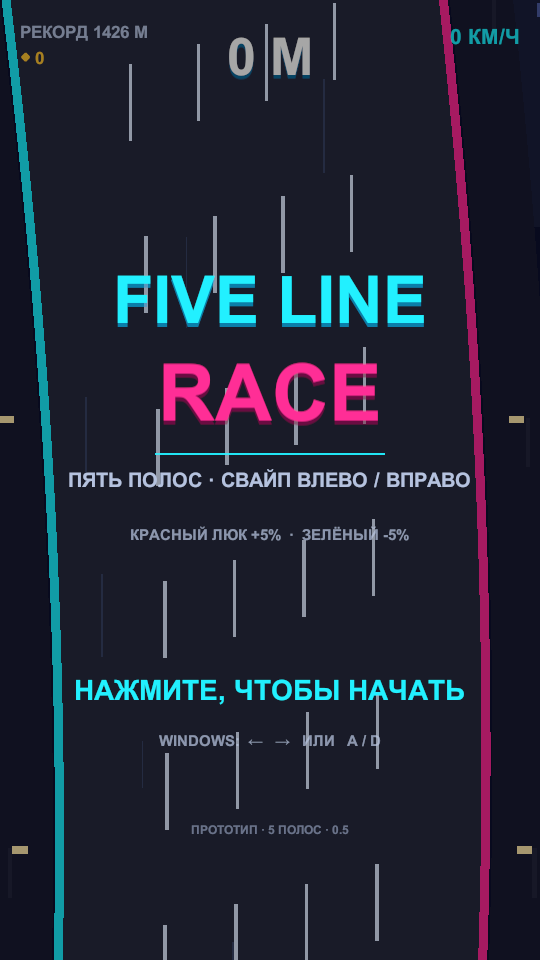
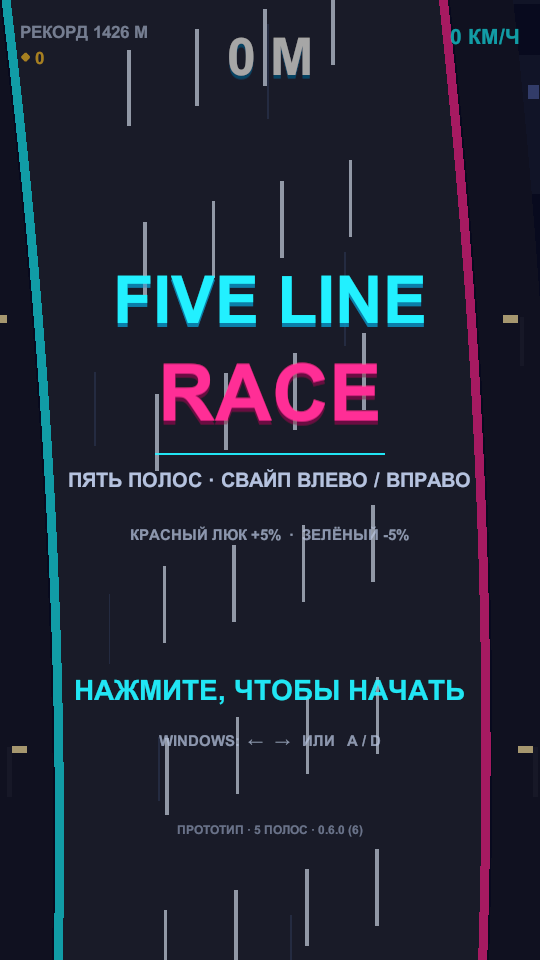
Add build versioning so APKs update in place (v0.6.0)
- Version lives in Assets/FiveLineRace/Resources/version.txt: version name + build code.
- G2Version reads it at runtime, so the menu shows e.g. "0.6.0 (6)".
- The builder bumps versionCode on every build, writes it back and applies versionName/versionCode to PlayerSettings before building.
- Android builds also produce a versioned copy: Builds/Android/FiveLineRace-0.6.0-6.apk.
- Verified with aapt2 and apksigner: the APK reports versionCode 6 / versionName 0.6.0 and is signed with the same debug certificate as v0.5.0, so it installs over the previous release and keeps the record.
- README documents versioning and update requirements.

diff --git a/Assets/FiveLineRace/Editor/FiveLineRaceBuilder.cs b/Assets/FiveLineRace/Editor/FiveLineRaceBuilder.cs
@@ -23,6 +23,7 @@ namespace FiveLineRace.EditorTools
         const string MaterialPath = ResourcesDir + "/TurboUnlit.mat";
         const string WindowsBuildPath = "Builds/Windows/FiveLineRace.exe";
         const string AndroidBuildPath = "Builds/Android/FiveLineRace.apk";
+        const string VersionFile = ResourcesDir + "/version.txt";
 
         // ---------------- Меню ----------------
 
@@ -42,6 +43,7 @@ namespace FiveLineRace.EditorTools
             try
             {
                 SetupProject();
+                ApplyVersion(true, out _);
                 BuildWindowsInternal();
                 Exit(0);
             }
@@ -58,7 +60,10 @@ namespace FiveLineRace.EditorTools
             try
             {
                 SetupProject();
+                string version;
+                int code = ApplyVersion(true, out version);
                 BuildAndroidInternal();
+                CopyVersionedApk(version, code);
                 Exit(0);
             }
             catch (Exception e)
@@ -74,8 +79,11 @@ namespace FiveLineRace.EditorTools
             try
             {
                 SetupProject();
+                string version;
+                int code = ApplyVersion(true, out version);
                 BuildWindowsInternal();
                 BuildAndroidInternal();
+                CopyVersionedApk(version, code);
                 Exit(0);
             }
             catch (Exception e)
@@ -118,7 +126,6 @@ namespace FiveLineRace.EditorTools
         {
             PlayerSettings.companyName = "Fallt Games";
             PlayerSettings.productName = "Five Line Race";
-            PlayerSettings.bundleVersion = "0.5.0";
             PlayerSettings.colorSpace = ColorSpace.Linear;
 
             // Портретная ориентация.
@@ -141,9 +148,61 @@ namespace FiveLineRace.EditorTools
             // Android: IL2CPP + ARM64.
             PlayerSettings.SetScriptingBackend(NamedBuildTarget.Android, ScriptingImplementation.IL2CPP);
             PlayerSettings.Android.targetArchitectures = AndroidArchitecture.ARM64;
-            PlayerSettings.Android.bundleVersionCode = 5;
 
             EditorUserBuildSettings.buildAppBundle = false;
+        }
+
+        // ---------------- Версия ----------------
+
+        /// <summary>
+        /// Читает version.txt: первая строка — имя версии, вторая — код сборки.
+        /// </summary>
+        static void ReadVersion(out string versionName, out int versionCode)
+        {
+            versionName = "0.0.0";
+            versionCode = 1;
+
+            if (!File.Exists(VersionFile)) return;
+
+            string[] lines = File.ReadAllLines(VersionFile);
+            if (lines.Length > 0 && lines[0].Trim().Length > 0) versionName = lines[0].Trim();
+            if (lines.Length > 1) int.TryParse(lines[1].Trim(), out versionCode);
+            if (versionCode < 1) versionCode = 1;
+        }
+
+        /// <summary>
+        /// Подставляет версию в настройки игрока. При bumpCode=true код сборки
+        /// увеличивается и сохраняется в version.txt — без этого Android
+        /// не поставит новый APK поверх установленного.
+        /// </summary>
+        static int ApplyVersion(bool bumpCode, out string versionName)
+        {
+            int versionCode;
+            ReadVersion(out versionName, out versionCode);
+
+            if (bumpCode) versionCode++;
+
+            File.WriteAllLines(VersionFile, new[] { versionName, versionCode.ToString() });
+            AssetDatabase.Refresh();
+
+            PlayerSettings.bundleVersion = versionName;
+            PlayerSettings.Android.bundleVersionCode = versionCode;
+
+            Debug.Log(string.Format("[FiveLineRace] Версия {0} (код сборки {1})", versionName, versionCode));
+            return versionCode;
+        }
+
+        /// <summary>Копия APK с версией в имени: FiveLineRace-0.6.0-6.apk.</summary>
+        static void CopyVersionedApk(string versionName, int versionCode)
+        {
+            if (!File.Exists(AndroidBuildPath)) return;
+
+            string folder = Path.GetDirectoryName(AndroidBuildPath);
+            string target = Path.Combine(folder,
+                string.Format("FiveLineRace-{0}-{1}.apk", versionName, versionCode));
+
+            File.Copy(AndroidBuildPath, target, true);
+            Debug.Log("[FiveLineRace] Версионированная копия APK: " + target);
         }
 
         /// <summary>

diff --git a/Assets/FiveLineRace/Scripts/G2Version.cs b/Assets/FiveLineRace/Scripts/G2Version.cs
@@ -1,0 +1,50 @@
+using UnityEngine;
+
+namespace FiveLineRace
+{
+    /// <summary>
+    /// Версия игры из Resources/version.txt:
+    /// первая строка — имя версии, вторая — код сборки.
+    /// Код сборки при каждой сборке увеличивается сам (см. FiveLineRaceBuilder),
+    /// поэтому новый APK ставится поверх старого.
+    /// </summary>
+    public static class G2Version
+    {
+        static bool loaded;
+        static string name = "0.0.0";
+        static int code;
+
+        public static string Name
+        {
+            get { Load(); return name; }
+        }
+
+        public static int Code
+        {
+            get { Load(); return code; }
+        }
+
+        /// <summary>Строка для меню: «0.6.0 (6)».</summary>
+        public static string Display
+        {
+            get { return Name + " (" + Code + ")"; }
+        }
+
+        static void Load()
+        {
+            if (loaded) return;
+            loaded = true;
+
+            var asset = Resources.Load<TextAsset>("version");
+            if (asset == null)
+            {
+                Debug.LogWarning("[FiveLineRace] Не найден Resources/version.txt");
+                return;
+            }
+
+            string[] lines = asset.text.Replace("\r", string.Empty).Split('\n');
+            if (lines.Length > 0 && lines[0].Trim().Length > 0) name = lines[0].Trim();
+            if (lines.Length > 1) int.TryParse(lines[1].Trim(), out code);
+        }
+    }
+}

diff --git a/Assets/FiveLineRace/Scripts/G2UI.cs b/Assets/FiveLineRace/Scripts/G2UI.cs
@@ -107,8 +107,8 @@ namespace FiveLineRace
             MakeText(menu, "Controls", "WINDOWS:  ←   →   ИЛИ   A / D", 30, FaintText, center, center,
                 new Vector2(0f, -520f), new Vector2(1000f, 50f));
 
-            MakeText(menu, "Version", "ПРОТОТИП · 5 ПОЛОС · 0.5", 24, new Color(0.7f, 0.76f, 0.9f, 0.3f), center, center,
-                new Vector2(0f, -700f), new Vector2(600f, 40f));
+            MakeText(menu, "Version", "ПРОТОТИП · 5 ПОЛОС · " + G2Version.Display, 24, new Color(0.7f, 0.76f, 0.9f, 0.3f), center, center,
+                new Vector2(0f, -700f), new Vector2(700f, 40f));
 
             // ---------- Экран аварии ----------
             crashPanel = MakePanel(root, "Crash", new Color(0.05f, 0.01f, 0.05f, 0.72f)).gameObject;

diff --git a/README.md b/README.md
@@ -62,6 +62,27 @@ build_android.bat
 
 - `Builds/Windows/FiveLineRace.exe`
 - `Builds/Android/FiveLineRace.apk` (IL2CPP, ARM64, debug-подпись)
+- `Builds/Android/FiveLineRace-<версия>-<код>.apk` — копия с версией в имени
+
+## Версии и обновление APK
+
+Версия хранится в одном месте — `Assets/FiveLineRace/Resources/version.txt`:
+
+```
+0.6.0
+6
+```
+
+- первая строка — имя версии (`versionName`), её меняют вручную;
+- вторая строка — код сборки (`versionCode`), он **увеличивается на 1 при каждой сборке**
+  и сразу подставляется в настройки Android;
+- в меню игры снизу показывается текущая версия, например `0.6.0 (6)`.
+
+Благодаря растущему коду новый APK ставится поверх установленного, данные и рекорд
+сохраняются. Важно, чтобы все APK были подписаны одним ключом: сейчас используется
+debug-ключ Unity с этой машины, поэтому обновления работают при сборке здесь же.
+Для переноса сборок на другой компьютер подключите собственный keystore
+(**Project Settings → Player → Publishing Settings**).
 
 ## Структура
 
@@ -69,6 +90,7 @@ build_android.bat
 Assets/Scenes/FiveLineRace.unity     — сцена (камера + объект Game)
 Assets/FiveLineRace/Scripts/         — игровой код
   G2Const.cs                           константы, палитра, пять полос
+  G2Version.cs                         версия из Resources/version.txt
   G2Path.cs                            кривая трассы (повороты)
   G2Ribbon.cs                          гладкие ленты дороги и бортов
   G2Mats.cs                            unlit-материалы (кэш)
